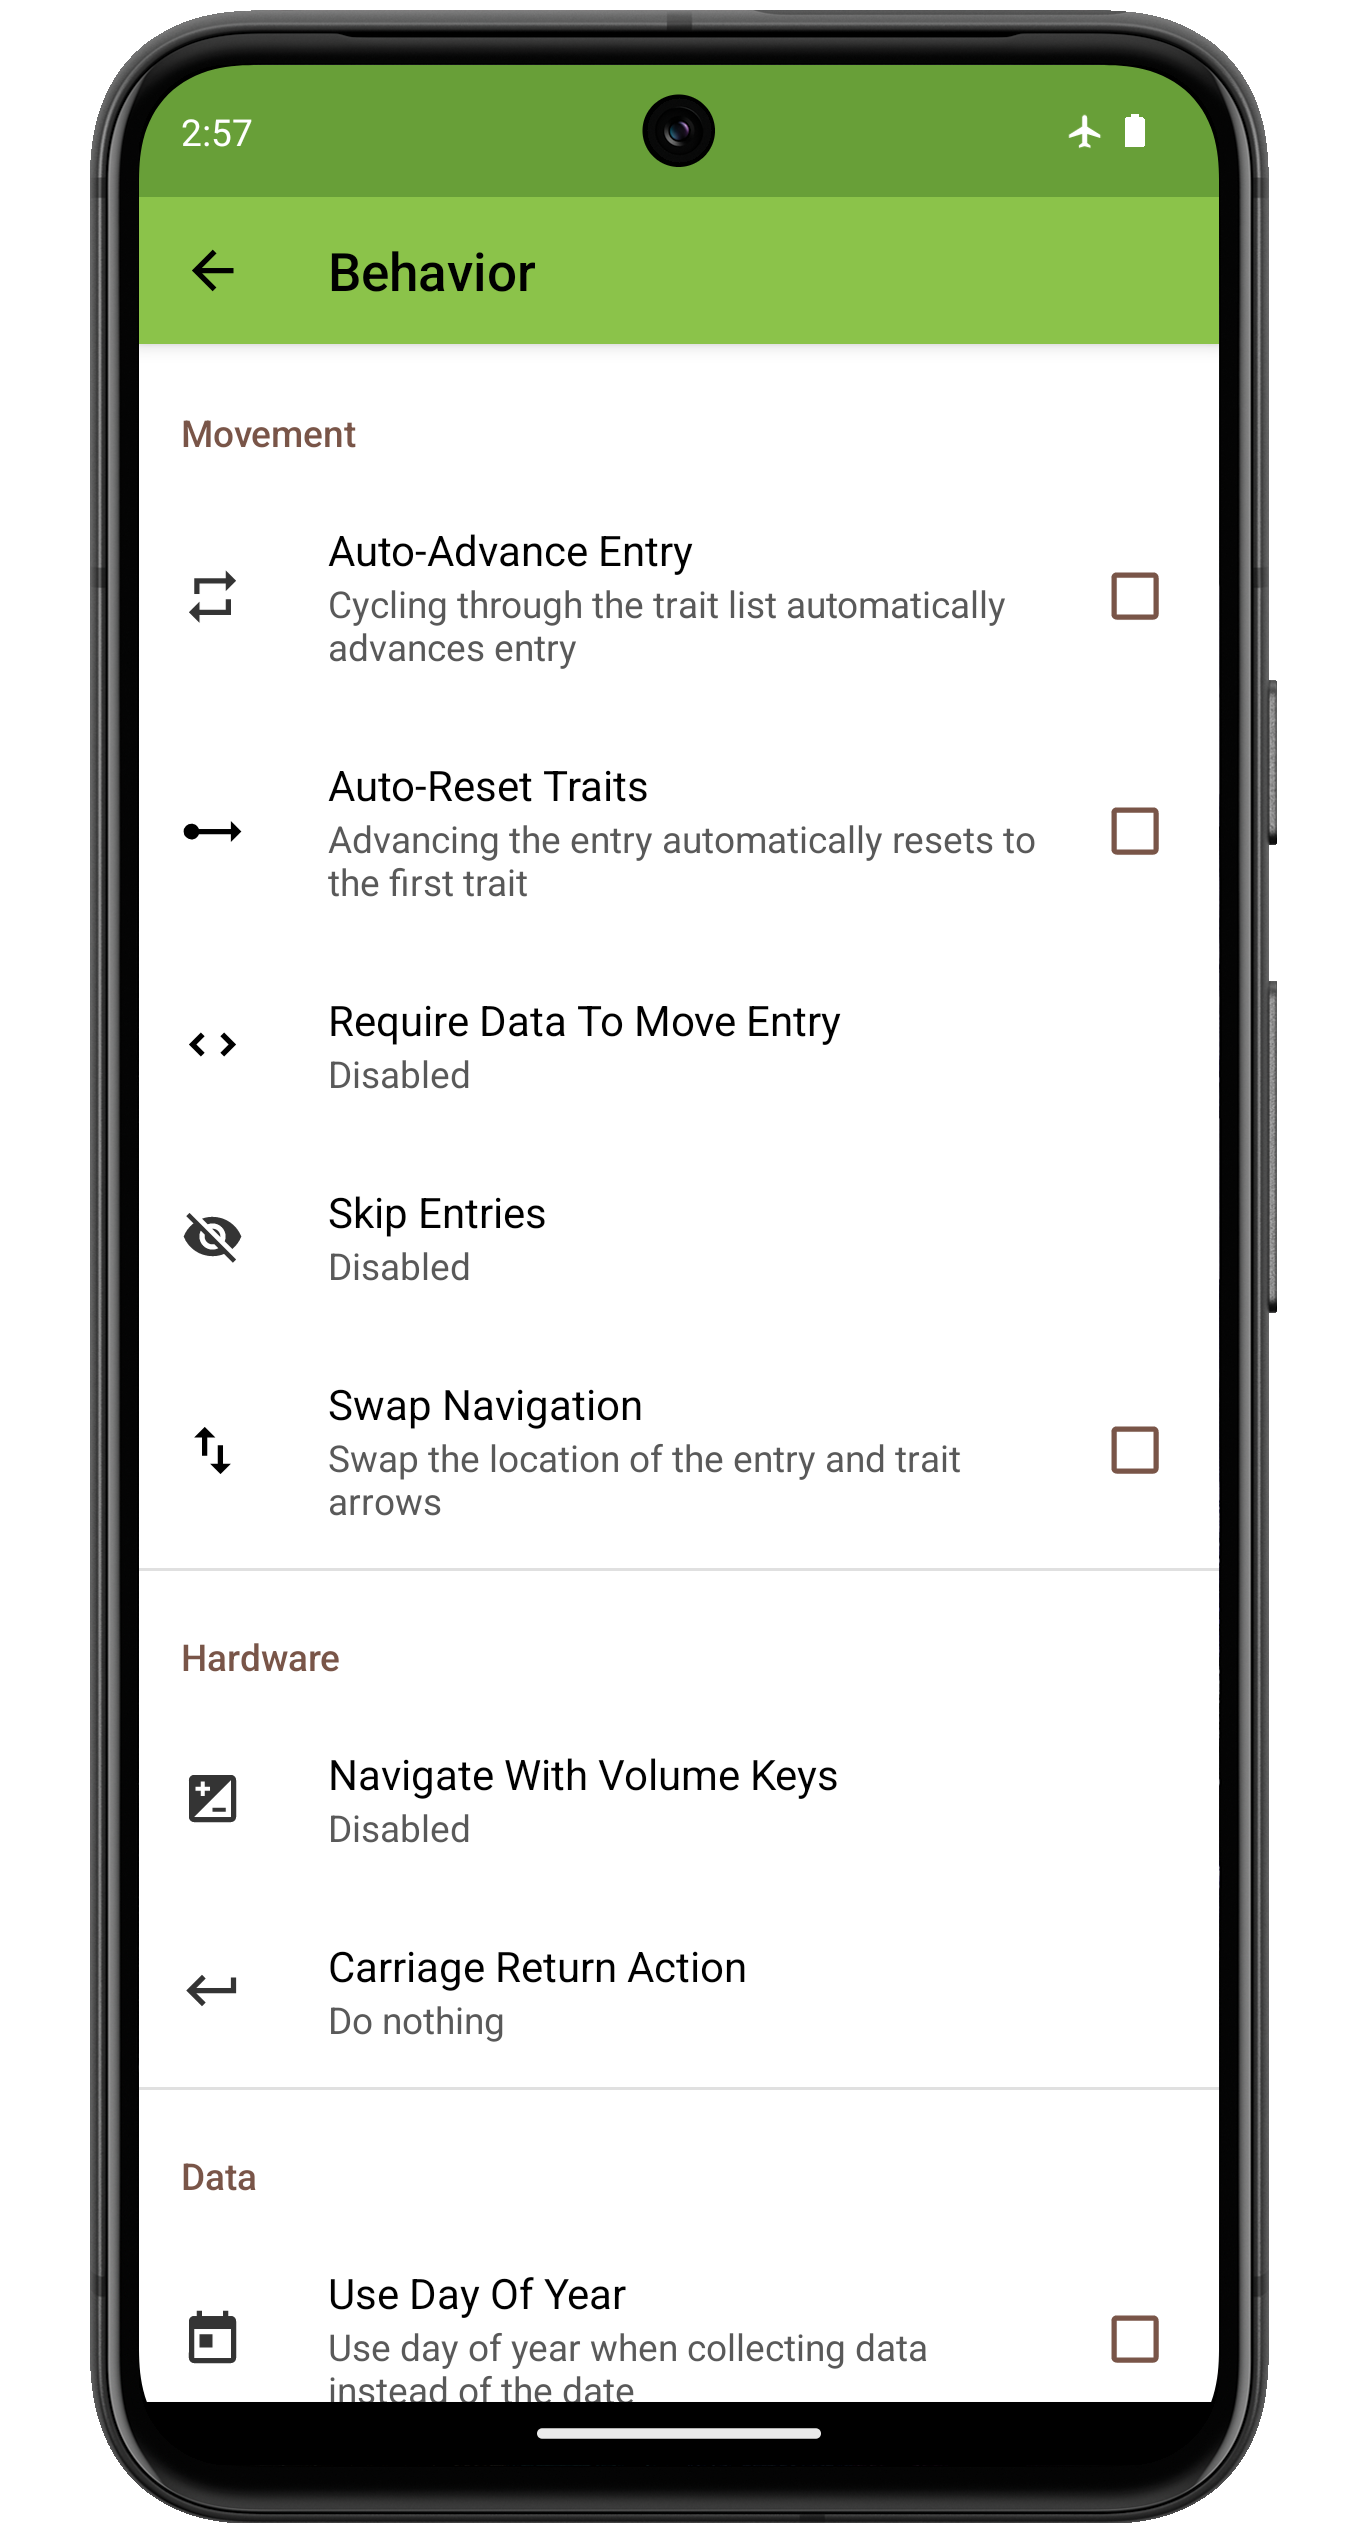
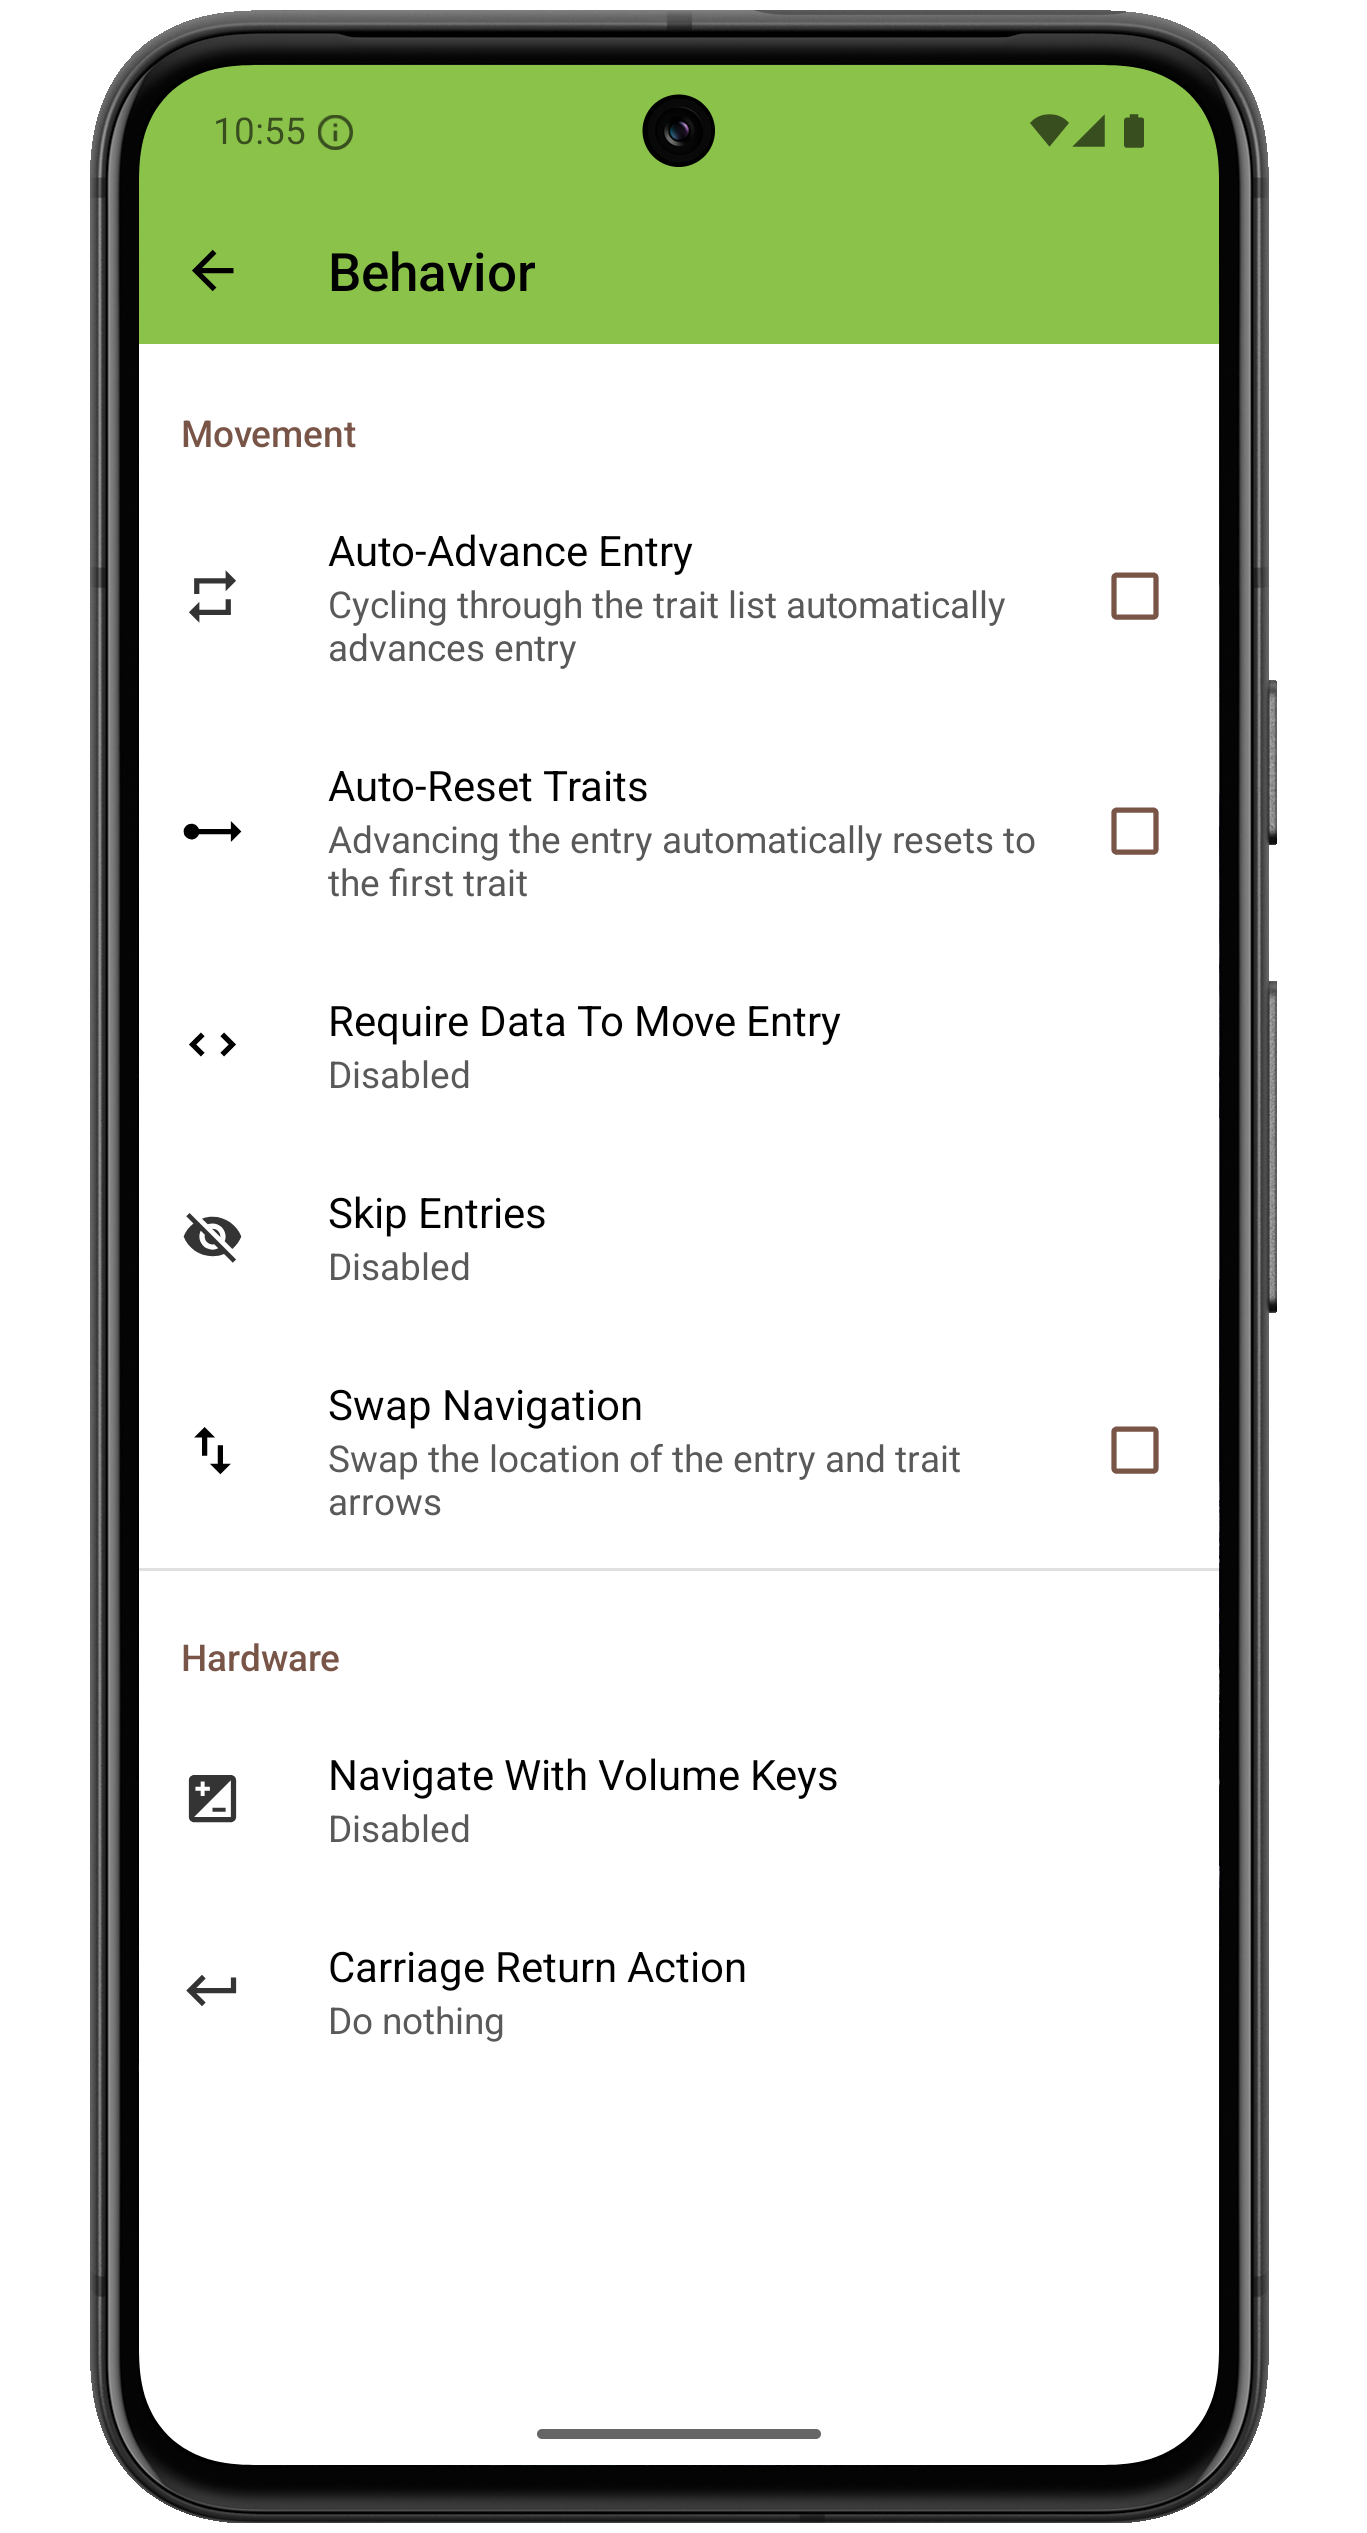
Remove use day of year docs

Changed region(s): [[0.0922, 0.0, 0.891, 0.0936], [0.0922, 0.9045, 0.891, 0.998], [0.1229, 0.8421, 0.1843, 0.8733]]

diff --git a/docs/settings/settings-behavior.md b/docs/settings/settings-behavior.md
@@ -1,62 +1,56 @@
-<link rel="stylesheet" type="text/css" href="_styles/styles.css">
+<link rel="stylesheet" type="text/css" href="../_styles/styles.css">
 
 # Behavior Settings
 
 <figure class="image">
-  <img class="screenshot" src="_static/images/settings/behavior/settings_behavior_framed.png" width="350px"> 
+  <img class="screenshot" src="../_static/images/settings/behavior/settings_behavior_framed.png" width="350px"> 
   <figcaption class="screenshot-caption"><i>Behavior settings screen</i></figcaption> 
 </figure>
 
 ## Movement
 
-#### <img class="icon" src="_static/icons/settings/behavior/repeat.png"> Auto-Advance Entry
+#### <img class="icon" src="../_static/icons/settings/behavior/repeat.png"> Auto-Advance Entry
 
 When enabled, once all active traits have been cycled, the app automatically advances to the next entry.
 
-#### <img class="icon" src="_static/icons/settings/behavior/ray-start-arrow.png"> Auto-Reset Traits
+#### <img class="icon" src="../_static/icons/settings/behavior/ray-start-arrow.png"> Auto-Reset Traits
 
 When enabled, advancing to the next entry automatically resets to the first trait.
 
-#### <img class="icon" src="_static/icons/settings/behavior/unfold-more-vertical.png"> Require Data To Move Entry
+#### <img class="icon" src="../_static/icons/settings/behavior/unfold-more-vertical.png"> Require Data To Move Entry
 
 Disables the left, right, or both entry arrows unless data has been collected to ensure an entry isn't skipped during data collection.
 
 <figure class="image">
-  <img class="screenshot" src="_static/images/settings/behavior/settings_behavior_require_data.png" width="325px"> 
+  <img class="screenshot" src="../_static/images/settings/behavior/settings_behavior_require_data.png" width="325px"> 
   <figcaption class="screenshot-caption"><i>Choice of direction disabled</i></figcaption> 
 </figure>
 
-#### <img class="icon" src="_static/icons/settings/behavior/eye-off.png"> Skip Entries
+#### <img class="icon" src="../_static/icons/settings/behavior/eye-off.png"> Skip Entries
 
 When advancing entries, skips either entries that already have data for the active trait, or entries that already have data for all traits.
 
 <figure class="image">
-  <img class="screenshot" src="_static/images/settings/behavior/settings_behavior_skip_entries.png" width="325px"> 
+  <img class="screenshot" src="../_static/images/settings/behavior/settings_behavior_skip_entries.png" width="325px"> 
   <figcaption class="screenshot-caption"><i>Choice of skip behavior</i></figcaption> 
 </figure>
 
-#### <img class="icon" src="_static/icons/settings/behavior/swap-vertical.png"> Swap Navigation
+#### <img class="icon" src="../_static/icons/settings/behavior/swap-vertical.png"> Swap Navigation
 
 Switches the location of the trait advancement section (small green arrows) and the entry advancement section (large black arrows).
 
 ## Hardware
 
-#### <img class="icon" src="_static/icons/settings/behavior/contrast-box.png"> Navigate With Volume Keys
+#### <img class="icon" src="../_static/icons/settings/behavior/contrast-box.png"> Navigate With Volume Keys
 
 Allows volume keys to be used to move to next/previous entry.
 This also disables the volume buttons being able to change the device volume when Collect is open.
 
-#### <img class="icon" src="_static/icons/settings/behavior/keyboard-return.png"> Carriage Return Action
+#### <img class="icon" src="../_static/icons/settings/behavior/keyboard-return.png"> Carriage Return Action
 
 Allows the user to choose the behavior of the carriage return signal that can be included when scanning barcodes: next plot, next trait, or do nothing.
 
 <figure class="image">
-  <img class="screenshot" src="_static/images/settings/behavior/settings_behavior_return.png" width="325px"> 
+  <img class="screenshot" src="../_static/images/settings/behavior/settings_behavior_return.png" width="325px"> 
   <figcaption class="screenshot-caption"><i>Choice of return key signal behavior</i></figcaption> 
 </figure>
-
-## Data
-
-#### <img class="icon" src="_static/icons/settings/behavior/calendar-today.png"> Use Day Of Year
-
-Changes the date trait format to record date values as numbers counting up from Jan 1, rather than traditional dates. For example `96` instead of `2023-04-06`.
